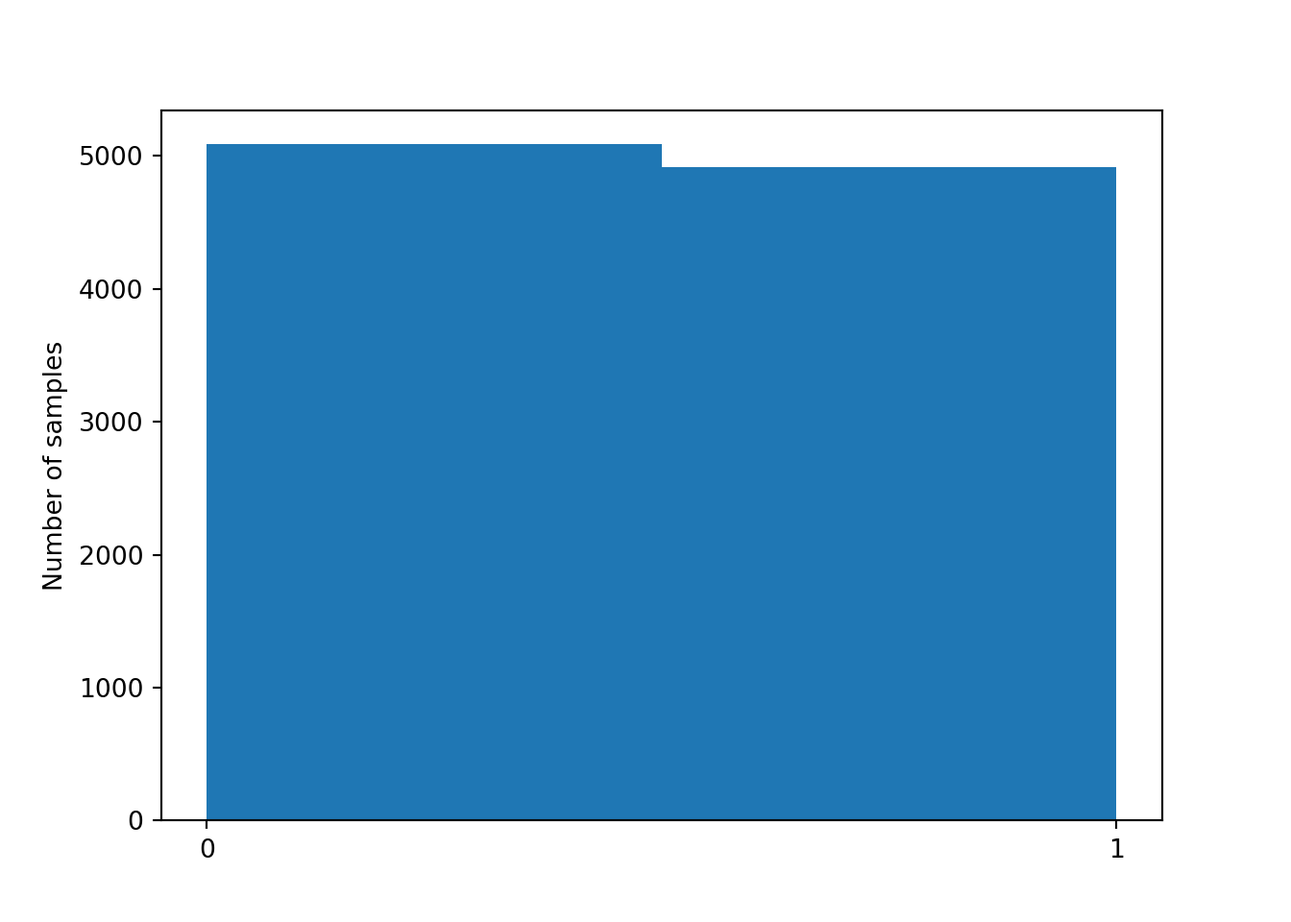
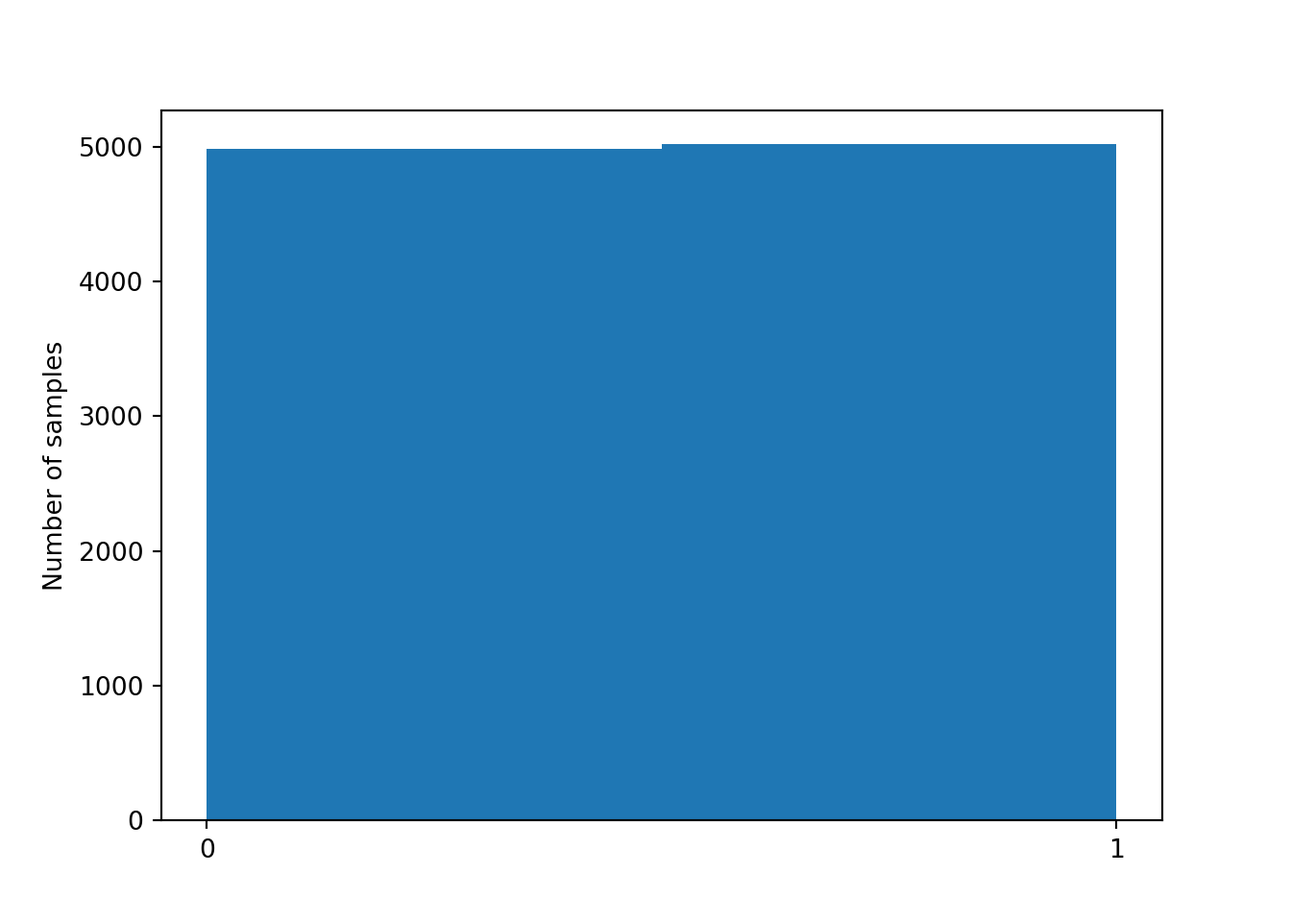
Clarified explanation

diff --git a/pragmatics.html b/pragmatics.html
@@ -99,17 +99,17 @@ Let’s verify.</p>
 <span class="math inline">\(-log(p_1 \cdot p_2) = -(log(p_1) + log(p_2)) = (-log(p_1))+(-log(p_2))\)</span> ✅</li>
 </ul>
 <p>Here’s a plot of this function:</p>
-<div class="sourceCode" id="cb70"><pre class="sourceCode python"><code class="sourceCode python"><span id="cb70-1"><a href="pragmatics.html#cb70-1" aria-hidden="true" tabindex="-1"></a><span class="im">import</span> numpy <span class="im">as</span> np</span>
-<span id="cb70-2"><a href="pragmatics.html#cb70-2" aria-hidden="true" tabindex="-1"></a><span class="im">import</span> matplotlib.pyplot <span class="im">as</span> plt</span>
-<span id="cb70-3"><a href="pragmatics.html#cb70-3" aria-hidden="true" tabindex="-1"></a></span>
-<span id="cb70-4"><a href="pragmatics.html#cb70-4" aria-hidden="true" tabindex="-1"></a>p <span class="op">=</span> np.linspace(<span class="fl">0.001</span>,<span class="dv">1</span>,num<span class="op">=</span><span class="dv">500</span>)</span>
-<span id="cb70-5"><a href="pragmatics.html#cb70-5" aria-hidden="true" tabindex="-1"></a>fp <span class="op">=</span> <span class="op">-</span>np.log(p)</span>
-<span id="cb70-6"><a href="pragmatics.html#cb70-6" aria-hidden="true" tabindex="-1"></a>  </span>
-<span id="cb70-7"><a href="pragmatics.html#cb70-7" aria-hidden="true" tabindex="-1"></a>fig, ax <span class="op">=</span> plt.subplots()</span>
-<span id="cb70-8"><a href="pragmatics.html#cb70-8" aria-hidden="true" tabindex="-1"></a>ax.plot(p, fp)</span>
-<span id="cb70-9"><a href="pragmatics.html#cb70-9" aria-hidden="true" tabindex="-1"></a>ax.set_xlabel(<span class="st">"p"</span>)</span>
-<span id="cb70-10"><a href="pragmatics.html#cb70-10" aria-hidden="true" tabindex="-1"></a>ax.set_ylabel(<span class="st">"surprisal"</span>)</span>
-<span id="cb70-11"><a href="pragmatics.html#cb70-11" aria-hidden="true" tabindex="-1"></a>plt.show()</span></code></pre></div>
+<div class="sourceCode" id="cb71"><pre class="sourceCode python"><code class="sourceCode python"><span id="cb71-1"><a href="pragmatics.html#cb71-1" aria-hidden="true" tabindex="-1"></a><span class="im">import</span> numpy <span class="im">as</span> np</span>
+<span id="cb71-2"><a href="pragmatics.html#cb71-2" aria-hidden="true" tabindex="-1"></a><span class="im">import</span> matplotlib.pyplot <span class="im">as</span> plt</span>
+<span id="cb71-3"><a href="pragmatics.html#cb71-3" aria-hidden="true" tabindex="-1"></a></span>
+<span id="cb71-4"><a href="pragmatics.html#cb71-4" aria-hidden="true" tabindex="-1"></a>p <span class="op">=</span> np.linspace(<span class="fl">0.001</span>,<span class="dv">1</span>,num<span class="op">=</span><span class="dv">500</span>)</span>
+<span id="cb71-5"><a href="pragmatics.html#cb71-5" aria-hidden="true" tabindex="-1"></a>fp <span class="op">=</span> <span class="op">-</span>np.log(p)</span>
+<span id="cb71-6"><a href="pragmatics.html#cb71-6" aria-hidden="true" tabindex="-1"></a>  </span>
+<span id="cb71-7"><a href="pragmatics.html#cb71-7" aria-hidden="true" tabindex="-1"></a>fig, ax <span class="op">=</span> plt.subplots()</span>
+<span id="cb71-8"><a href="pragmatics.html#cb71-8" aria-hidden="true" tabindex="-1"></a>ax.plot(p, fp)</span>
+<span id="cb71-9"><a href="pragmatics.html#cb71-9" aria-hidden="true" tabindex="-1"></a>ax.set_xlabel(<span class="st">"p"</span>)</span>
+<span id="cb71-10"><a href="pragmatics.html#cb71-10" aria-hidden="true" tabindex="-1"></a>ax.set_ylabel(<span class="st">"surprisal"</span>)</span>
+<span id="cb71-11"><a href="pragmatics.html#cb71-11" aria-hidden="true" tabindex="-1"></a>plt.show()</span></code></pre></div>
 <div class="inline-figure"><img src="_main_files/figure-html/unnamed-chunk-52-1.png" width="672"></div>
 <p><em>What does surprisal have to do with language?</em></p>
 <p>When you’re communicating with someone, surprisal can help you decide what information to give the other person. For example, imagine that you observe a number between 1 and 10 and you want to share it with someone else. You could either say:</p>
@@ -136,32 +136,32 @@ Let’s verify.</p>
 <li>Nothing – stay silent. (You could have eaten none or any number of cookies.)</li>
 </ol>
 <p>Let’s define this situation using a binary matrix. Each row is a signal (what you say) and each column is a state (how many cookies were eaten).</p>
-<div class="sourceCode" id="cb71"><pre class="sourceCode python"><code class="sourceCode python"><span id="cb71-1"><a href="pragmatics.html#cb71-1" aria-hidden="true" tabindex="-1"></a>state_matrix <span class="op">=</span> np.array([[<span class="dv">0</span>,<span class="dv">1</span>,<span class="dv">1</span>],</span>
-<span id="cb71-2"><a href="pragmatics.html#cb71-2" aria-hidden="true" tabindex="-1"></a>                         [<span class="dv">0</span>,<span class="dv">0</span>,<span class="dv">1</span>],</span>
-<span id="cb71-3"><a href="pragmatics.html#cb71-3" aria-hidden="true" tabindex="-1"></a>                         [<span class="dv">1</span>,<span class="dv">0</span>,<span class="dv">0</span>],</span>
-<span id="cb71-4"><a href="pragmatics.html#cb71-4" aria-hidden="true" tabindex="-1"></a>                         [<span class="dv">1</span>,<span class="dv">1</span>,<span class="dv">1</span>]])</span>
-<span id="cb71-5"><a href="pragmatics.html#cb71-5" aria-hidden="true" tabindex="-1"></a>                         </span>
-<span id="cb71-6"><a href="pragmatics.html#cb71-6" aria-hidden="true" tabindex="-1"></a>signals <span class="op">=</span> [<span class="st">"some"</span>, <span class="st">"all"</span>, <span class="st">"no"</span>, <span class="st">"silent"</span>]</span>
-<span id="cb71-7"><a href="pragmatics.html#cb71-7" aria-hidden="true" tabindex="-1"></a>states <span class="op">=</span> [<span class="st">"0"</span>,<span class="st">"1"</span>,<span class="st">"2"</span>]</span></code></pre></div>
+<div class="sourceCode" id="cb72"><pre class="sourceCode python"><code class="sourceCode python"><span id="cb72-1"><a href="pragmatics.html#cb72-1" aria-hidden="true" tabindex="-1"></a>state_matrix <span class="op">=</span> np.array([[<span class="dv">0</span>,<span class="dv">1</span>,<span class="dv">1</span>],</span>
+<span id="cb72-2"><a href="pragmatics.html#cb72-2" aria-hidden="true" tabindex="-1"></a>                         [<span class="dv">0</span>,<span class="dv">0</span>,<span class="dv">1</span>],</span>
+<span id="cb72-3"><a href="pragmatics.html#cb72-3" aria-hidden="true" tabindex="-1"></a>                         [<span class="dv">1</span>,<span class="dv">0</span>,<span class="dv">0</span>],</span>
+<span id="cb72-4"><a href="pragmatics.html#cb72-4" aria-hidden="true" tabindex="-1"></a>                         [<span class="dv">1</span>,<span class="dv">1</span>,<span class="dv">1</span>]])</span>
+<span id="cb72-5"><a href="pragmatics.html#cb72-5" aria-hidden="true" tabindex="-1"></a>                         </span>
+<span id="cb72-6"><a href="pragmatics.html#cb72-6" aria-hidden="true" tabindex="-1"></a>signals <span class="op">=</span> [<span class="st">"some"</span>, <span class="st">"all"</span>, <span class="st">"no"</span>, <span class="st">"silent"</span>]</span>
+<span id="cb72-7"><a href="pragmatics.html#cb72-7" aria-hidden="true" tabindex="-1"></a>states <span class="op">=</span> [<span class="st">"0"</span>,<span class="st">"1"</span>,<span class="st">"2"</span>]</span></code></pre></div>
 <p>We’ll define a function that prints out this matrix as a heat map.</p>
-<div class="sourceCode" id="cb72"><pre class="sourceCode python"><code class="sourceCode python"><span id="cb72-1"><a href="pragmatics.html#cb72-1" aria-hidden="true" tabindex="-1"></a><span class="kw">def</span> print_state_matrix(m, x_labels<span class="op">=</span><span class="va">None</span>, y_labels<span class="op">=</span><span class="va">None</span>):</span>
-<span id="cb72-2"><a href="pragmatics.html#cb72-2" aria-hidden="true" tabindex="-1"></a>  fig, ax <span class="op">=</span> plt.subplots()</span>
-<span id="cb72-3"><a href="pragmatics.html#cb72-3" aria-hidden="true" tabindex="-1"></a>  im <span class="op">=</span> ax.imshow(m)</span>
-<span id="cb72-4"><a href="pragmatics.html#cb72-4" aria-hidden="true" tabindex="-1"></a>  </span>
-<span id="cb72-5"><a href="pragmatics.html#cb72-5" aria-hidden="true" tabindex="-1"></a>  <span class="cf">if</span> (x_labels <span class="kw">and</span> y_labels):</span>
-<span id="cb72-6"><a href="pragmatics.html#cb72-6" aria-hidden="true" tabindex="-1"></a>    ax.set_xticks(np.arange(<span class="bu">len</span>(x_labels)), labels<span class="op">=</span>x_labels)</span>
-<span id="cb72-7"><a href="pragmatics.html#cb72-7" aria-hidden="true" tabindex="-1"></a>    ax.set_yticks(np.arange(<span class="bu">len</span>(y_labels)), labels<span class="op">=</span>y_labels)</span>
-<span id="cb72-8"><a href="pragmatics.html#cb72-8" aria-hidden="true" tabindex="-1"></a>  </span>
-<span id="cb72-9"><a href="pragmatics.html#cb72-9" aria-hidden="true" tabindex="-1"></a>    <span class="cf">for</span> i <span class="kw">in</span> <span class="bu">range</span>(<span class="bu">len</span>(y_labels)):</span>
-<span id="cb72-10"><a href="pragmatics.html#cb72-10" aria-hidden="true" tabindex="-1"></a>      <span class="cf">for</span> j <span class="kw">in</span> <span class="bu">range</span>(<span class="bu">len</span>(x_labels)):</span>
-<span id="cb72-11"><a href="pragmatics.html#cb72-11" aria-hidden="true" tabindex="-1"></a>        text <span class="op">=</span> ax.text(j, i, <span class="bu">round</span>(m[i, j],<span class="dv">2</span>),</span>
-<span id="cb72-12"><a href="pragmatics.html#cb72-12" aria-hidden="true" tabindex="-1"></a>          ha<span class="op">=</span><span class="st">"center"</span>, va<span class="op">=</span><span class="st">"center"</span>, color<span class="op">=</span><span class="st">"w"</span>)</span>
-<span id="cb72-13"><a href="pragmatics.html#cb72-13" aria-hidden="true" tabindex="-1"></a>  </span>
-<span id="cb72-14"><a href="pragmatics.html#cb72-14" aria-hidden="true" tabindex="-1"></a>  fig.tight_layout()</span>
-<span id="cb72-15"><a href="pragmatics.html#cb72-15" aria-hidden="true" tabindex="-1"></a>  plt.show()</span>
-<span id="cb72-16"><a href="pragmatics.html#cb72-16" aria-hidden="true" tabindex="-1"></a></span>
-<span id="cb72-17"><a href="pragmatics.html#cb72-17" aria-hidden="true" tabindex="-1"></a><span class="co"># Print out the matrix</span></span>
-<span id="cb72-18"><a href="pragmatics.html#cb72-18" aria-hidden="true" tabindex="-1"></a>print_state_matrix(state_matrix, states, signals)</span></code></pre></div>
+<div class="sourceCode" id="cb73"><pre class="sourceCode python"><code class="sourceCode python"><span id="cb73-1"><a href="pragmatics.html#cb73-1" aria-hidden="true" tabindex="-1"></a><span class="kw">def</span> print_state_matrix(m, x_labels<span class="op">=</span><span class="va">None</span>, y_labels<span class="op">=</span><span class="va">None</span>):</span>
+<span id="cb73-2"><a href="pragmatics.html#cb73-2" aria-hidden="true" tabindex="-1"></a>  fig, ax <span class="op">=</span> plt.subplots()</span>
+<span id="cb73-3"><a href="pragmatics.html#cb73-3" aria-hidden="true" tabindex="-1"></a>  im <span class="op">=</span> ax.imshow(m)</span>
+<span id="cb73-4"><a href="pragmatics.html#cb73-4" aria-hidden="true" tabindex="-1"></a>  </span>
+<span id="cb73-5"><a href="pragmatics.html#cb73-5" aria-hidden="true" tabindex="-1"></a>  <span class="cf">if</span> (x_labels <span class="kw">and</span> y_labels):</span>
+<span id="cb73-6"><a href="pragmatics.html#cb73-6" aria-hidden="true" tabindex="-1"></a>    ax.set_xticks(np.arange(<span class="bu">len</span>(x_labels)), labels<span class="op">=</span>x_labels)</span>
+<span id="cb73-7"><a href="pragmatics.html#cb73-7" aria-hidden="true" tabindex="-1"></a>    ax.set_yticks(np.arange(<span class="bu">len</span>(y_labels)), labels<span class="op">=</span>y_labels)</span>
+<span id="cb73-8"><a href="pragmatics.html#cb73-8" aria-hidden="true" tabindex="-1"></a>  </span>
+<span id="cb73-9"><a href="pragmatics.html#cb73-9" aria-hidden="true" tabindex="-1"></a>    <span class="cf">for</span> i <span class="kw">in</span> <span class="bu">range</span>(<span class="bu">len</span>(y_labels)):</span>
+<span id="cb73-10"><a href="pragmatics.html#cb73-10" aria-hidden="true" tabindex="-1"></a>      <span class="cf">for</span> j <span class="kw">in</span> <span class="bu">range</span>(<span class="bu">len</span>(x_labels)):</span>
+<span id="cb73-11"><a href="pragmatics.html#cb73-11" aria-hidden="true" tabindex="-1"></a>        text <span class="op">=</span> ax.text(j, i, <span class="bu">round</span>(m[i, j],<span class="dv">2</span>),</span>
+<span id="cb73-12"><a href="pragmatics.html#cb73-12" aria-hidden="true" tabindex="-1"></a>          ha<span class="op">=</span><span class="st">"center"</span>, va<span class="op">=</span><span class="st">"center"</span>, color<span class="op">=</span><span class="st">"w"</span>)</span>
+<span id="cb73-13"><a href="pragmatics.html#cb73-13" aria-hidden="true" tabindex="-1"></a>  </span>
+<span id="cb73-14"><a href="pragmatics.html#cb73-14" aria-hidden="true" tabindex="-1"></a>  fig.tight_layout()</span>
+<span id="cb73-15"><a href="pragmatics.html#cb73-15" aria-hidden="true" tabindex="-1"></a>  plt.show()</span>
+<span id="cb73-16"><a href="pragmatics.html#cb73-16" aria-hidden="true" tabindex="-1"></a></span>
+<span id="cb73-17"><a href="pragmatics.html#cb73-17" aria-hidden="true" tabindex="-1"></a><span class="co"># Print out the matrix</span></span>
+<span id="cb73-18"><a href="pragmatics.html#cb73-18" aria-hidden="true" tabindex="-1"></a>print_state_matrix(state_matrix, states, signals)</span></code></pre></div>
 <div class="inline-figure"><img src="_main_files/figure-html/unnamed-chunk-54-3.png" width="672"></div>
 <p>Now let’s calculate how a literal listener would interpret each of these statements. Each row in the matrix above (one for each signal) will define a distribution over the states. That is, for for state <span class="math inline">\(h\)</span> and signal <span class="math inline">\(d\)</span>, we want to compute:</p>
 <p><span class="math display">\[
@@ -169,35 +169,35 @@ P_{\text{listener}}(h|d) \propto P(d|h) P(h)
 \]</span></p>
 <p>The literal listener assumes that, given a state, a signal consistent with that state is chosen at random by the speaker. This is already captured in the matrix above: Signals consistent with a state have a value of 1 in their cells and signals inconsistent have a 0. We will also assume that the listener has a uniform prior over states. Therefore, we can calculate the literal listener’s probabilities by just normalizing the rows of the matrix.</p>
 <p>We’ll do this more than once, so let’s write a function to do it.</p>
-<div class="sourceCode" id="cb73"><pre class="sourceCode python"><code class="sourceCode python"><span id="cb73-1"><a href="pragmatics.html#cb73-1" aria-hidden="true" tabindex="-1"></a><span class="kw">def</span> normalize_rows(m):</span>
-<span id="cb73-2"><a href="pragmatics.html#cb73-2" aria-hidden="true" tabindex="-1"></a>  normalized_m <span class="op">=</span> np.zeros((m.shape))</span>
-<span id="cb73-3"><a href="pragmatics.html#cb73-3" aria-hidden="true" tabindex="-1"></a>  row_num <span class="op">=</span> <span class="dv">0</span></span>
-<span id="cb73-4"><a href="pragmatics.html#cb73-4" aria-hidden="true" tabindex="-1"></a>  <span class="cf">for</span> row <span class="kw">in</span> m:</span>
-<span id="cb73-5"><a href="pragmatics.html#cb73-5" aria-hidden="true" tabindex="-1"></a>    normalized_m[row_num,:] <span class="op">=</span> row <span class="op">/</span> <span class="bu">sum</span>(row)</span>
-<span id="cb73-6"><a href="pragmatics.html#cb73-6" aria-hidden="true" tabindex="-1"></a>    row_num <span class="op">+=</span> <span class="dv">1</span></span>
-<span id="cb73-7"><a href="pragmatics.html#cb73-7" aria-hidden="true" tabindex="-1"></a>    </span>
-<span id="cb73-8"><a href="pragmatics.html#cb73-8" aria-hidden="true" tabindex="-1"></a>  <span class="cf">return</span>(normalized_m)</span></code></pre></div>
-<div class="sourceCode" id="cb74"><pre class="sourceCode python"><code class="sourceCode python"><span id="cb74-1"><a href="pragmatics.html#cb74-1" aria-hidden="true" tabindex="-1"></a>literal_listener <span class="op">=</span> normalize_rows(state_matrix)</span>
-<span id="cb74-2"><a href="pragmatics.html#cb74-2" aria-hidden="true" tabindex="-1"></a>print_state_matrix(literal_listener, states, signals)</span></code></pre></div>
+<div class="sourceCode" id="cb74"><pre class="sourceCode python"><code class="sourceCode python"><span id="cb74-1"><a href="pragmatics.html#cb74-1" aria-hidden="true" tabindex="-1"></a><span class="kw">def</span> normalize_rows(m):</span>
+<span id="cb74-2"><a href="pragmatics.html#cb74-2" aria-hidden="true" tabindex="-1"></a>  normalized_m <span class="op">=</span> np.zeros((m.shape))</span>
+<span id="cb74-3"><a href="pragmatics.html#cb74-3" aria-hidden="true" tabindex="-1"></a>  row_num <span class="op">=</span> <span class="dv">0</span></span>
+<span id="cb74-4"><a href="pragmatics.html#cb74-4" aria-hidden="true" tabindex="-1"></a>  <span class="cf">for</span> row <span class="kw">in</span> m:</span>
+<span id="cb74-5"><a href="pragmatics.html#cb74-5" aria-hidden="true" tabindex="-1"></a>    normalized_m[row_num,:] <span class="op">=</span> row <span class="op">/</span> <span class="bu">sum</span>(row)</span>
+<span id="cb74-6"><a href="pragmatics.html#cb74-6" aria-hidden="true" tabindex="-1"></a>    row_num <span class="op">+=</span> <span class="dv">1</span></span>
+<span id="cb74-7"><a href="pragmatics.html#cb74-7" aria-hidden="true" tabindex="-1"></a>    </span>
+<span id="cb74-8"><a href="pragmatics.html#cb74-8" aria-hidden="true" tabindex="-1"></a>  <span class="cf">return</span>(normalized_m)</span></code></pre></div>
+<div class="sourceCode" id="cb75"><pre class="sourceCode python"><code class="sourceCode python"><span id="cb75-1"><a href="pragmatics.html#cb75-1" aria-hidden="true" tabindex="-1"></a>literal_listener <span class="op">=</span> normalize_rows(state_matrix)</span>
+<span id="cb75-2"><a href="pragmatics.html#cb75-2" aria-hidden="true" tabindex="-1"></a>print_state_matrix(literal_listener, states, signals)</span></code></pre></div>
 <div class="inline-figure"><img src="_main_files/figure-html/unnamed-chunk-56-5.png" width="672"></div>
 <p>Now let’s calculate the pragmatic speaker. The pragmatic speaker chooses a signal given a state. Therefore, this time, the <em>columns</em> of the matrix will be probability distributions.</p>
 <p>Unlike the literal listener, the pragmatic speaker is trying to convey some information, so they will choose a signal with the greatest <em>expected utility</em> for the literal listener. Expected utility in this case is defined as the expected increase in understanding about the true state of the world. Remember, we already have a way of quantifying this: surprisal. So we’ll define utility as negative surprisal of the state given the signal from the point of view of the literal listener: <span class="math inline">\(-(-log(P_{\text{listener}}(h|d)))\)</span>.</p>
-<div class="sourceCode" id="cb75"><pre class="sourceCode python"><code class="sourceCode python"><span id="cb75-1"><a href="pragmatics.html#cb75-1" aria-hidden="true" tabindex="-1"></a><span class="co"># First we apply a softmax decision function</span></span>
-<span id="cb75-2"><a href="pragmatics.html#cb75-2" aria-hidden="true" tabindex="-1"></a>alpha <span class="op">=</span> <span class="dv">1</span> <span class="co"># paramater controls how close to maximizing speaker is</span></span>
-<span id="cb75-3"><a href="pragmatics.html#cb75-3" aria-hidden="true" tabindex="-1"></a>pragmatic_speaker <span class="op">=</span> np.exp(np.log(literal_listener)<span class="op">*</span>alpha)</span></code></pre></div>
+<div class="sourceCode" id="cb76"><pre class="sourceCode python"><code class="sourceCode python"><span id="cb76-1"><a href="pragmatics.html#cb76-1" aria-hidden="true" tabindex="-1"></a><span class="co"># First we apply a softmax decision function</span></span>
+<span id="cb76-2"><a href="pragmatics.html#cb76-2" aria-hidden="true" tabindex="-1"></a>alpha <span class="op">=</span> <span class="dv">1</span> <span class="co"># paramater controls how close to maximizing speaker is</span></span>
+<span id="cb76-3"><a href="pragmatics.html#cb76-3" aria-hidden="true" tabindex="-1"></a>pragmatic_speaker <span class="op">=</span> np.exp(np.log(literal_listener)<span class="op">*</span>alpha)</span></code></pre></div>
 <pre><code>## &lt;string&gt;:1: RuntimeWarning: divide by zero encountered in log</code></pre>
-<div class="sourceCode" id="cb77"><pre class="sourceCode python"><code class="sourceCode python"><span id="cb77-1"><a href="pragmatics.html#cb77-1" aria-hidden="true" tabindex="-1"></a><span class="cf">for</span> col <span class="kw">in</span> <span class="bu">range</span>(pragmatic_speaker.shape[<span class="dv">1</span>]):</span>
-<span id="cb77-2"><a href="pragmatics.html#cb77-2" aria-hidden="true" tabindex="-1"></a>  pragmatic_speaker[:,col] <span class="op">=</span> (pragmatic_speaker[:,col] <span class="op">/</span></span>
-<span id="cb77-3"><a href="pragmatics.html#cb77-3" aria-hidden="true" tabindex="-1"></a>    <span class="bu">sum</span>(pragmatic_speaker[:,col]))</span>
-<span id="cb77-4"><a href="pragmatics.html#cb77-4" aria-hidden="true" tabindex="-1"></a></span>
-<span id="cb77-5"><a href="pragmatics.html#cb77-5" aria-hidden="true" tabindex="-1"></a>print_state_matrix(pragmatic_speaker, states, signals)</span></code></pre></div>
+<div class="sourceCode" id="cb78"><pre class="sourceCode python"><code class="sourceCode python"><span id="cb78-1"><a href="pragmatics.html#cb78-1" aria-hidden="true" tabindex="-1"></a><span class="cf">for</span> col <span class="kw">in</span> <span class="bu">range</span>(pragmatic_speaker.shape[<span class="dv">1</span>]):</span>
+<span id="cb78-2"><a href="pragmatics.html#cb78-2" aria-hidden="true" tabindex="-1"></a>  pragmatic_speaker[:,col] <span class="op">=</span> (pragmatic_speaker[:,col] <span class="op">/</span></span>
+<span id="cb78-3"><a href="pragmatics.html#cb78-3" aria-hidden="true" tabindex="-1"></a>    <span class="bu">sum</span>(pragmatic_speaker[:,col]))</span>
+<span id="cb78-4"><a href="pragmatics.html#cb78-4" aria-hidden="true" tabindex="-1"></a></span>
+<span id="cb78-5"><a href="pragmatics.html#cb78-5" aria-hidden="true" tabindex="-1"></a>print_state_matrix(pragmatic_speaker, states, signals)</span></code></pre></div>
 <div class="inline-figure"><img src="_main_files/figure-html/unnamed-chunk-57-7.png" width="672"></div>
 <p>In the above code, I used something known as a “softmax” rather than a true maximizing function. The exponential function captures the idea that the speaker will choose probabilistically, generally choosing options with more utility. This is a fairly common assumption in both psychology and economics because we often don’t have complete information when making decisions (or when modeling other people’s decisions), so assuming a pure maximizing function isn’t always the best choice.</p>
 <p>However, I also included a parameter <code>alpha</code> that controls how close to maximizing the speaker is. The larger <code>alpha</code> is, the closer the speaker will get to maximizing utility.</p>
 <p>Now we can calculate the probabilities for the pragmatic listener. This will be similar to the literal listener in that the pragmatic listener receives a signal and computes the probability of each state given a signal. The difference is that the pragmatic listener doesn’t assume the signals are chosen at random, but that the signals are chosen by the pragmatic speaker above.</p>
 <p>We can compute the pragmatic listener by normalizing the matrix above along the rows.</p>
-<div class="sourceCode" id="cb78"><pre class="sourceCode python"><code class="sourceCode python"><span id="cb78-1"><a href="pragmatics.html#cb78-1" aria-hidden="true" tabindex="-1"></a>pragmatic_listener <span class="op">=</span> normalize_rows(pragmatic_speaker)</span>
-<span id="cb78-2"><a href="pragmatics.html#cb78-2" aria-hidden="true" tabindex="-1"></a>print_state_matrix(pragmatic_listener, states, signals)</span></code></pre></div>
+<div class="sourceCode" id="cb79"><pre class="sourceCode python"><code class="sourceCode python"><span id="cb79-1"><a href="pragmatics.html#cb79-1" aria-hidden="true" tabindex="-1"></a>pragmatic_listener <span class="op">=</span> normalize_rows(pragmatic_speaker)</span>
+<span id="cb79-2"><a href="pragmatics.html#cb79-2" aria-hidden="true" tabindex="-1"></a>print_state_matrix(pragmatic_listener, states, signals)</span></code></pre></div>
 <div class="inline-figure"><img src="_main_files/figure-html/unnamed-chunk-58-9.png" width="672"></div>
 <p>The pragmatic listener correctly infers a <a href="https://en.wikipedia.org/wiki/Scalar_implicature">scalar implicature</a>, a concept from pragmatics in linguistics. Even though “I had some cookies” is consistent with eating all of the cookies, a pragmatic listener will infer that if a person says they ate <em>some</em> then they did not eat <em>all</em> (otherwise they would have said so).</p>
 </div>
@@ -223,7 +223,8 @@ P_{\text{listener}}(h|d) \propto P(d|h) P(h)
 <span class="header-section-number">8.3.2</span> The model<a class="anchor" aria-label="anchor" href="#the-model-1"><i class="fas fa-link"></i></a>
 </h3>
 <p>Their model is virtually identical to the cookie jar model we just worked through. They assume that speakers try to choose words to maximize the listener’s utility, as measured by surprisal.</p>
-<p>A literal listener in this case would assume that any object that is consistent the speaker’s chosen word could have been the one they were referring to. In the paper, they formalize this assumption like so:</p>
+<p>A literal listener in this case would assume that any object that is consistent with the speaker’s chosen word could have been the one they were referring to.</p>
+<p>With these assumptions, the researchers derive the probability of the speaker choosing each word (details in the paper) as:</p>
 <p><span class="math display">\[
 P(w|r_s,C) = \frac{|w|^{-1}}{\sum_{w^\prime \in W} {|w^\prime|}^{-1}}
 \]</span></p>
@@ -240,6 +241,7 @@ P(w|r_s,C) = \frac{|w|^{-1}}{\sum_{w^\prime \in W} {|w^\prime|}^{-1}}
 <span class="math inline">\(W\)</span>: The set of words that apply to the object that the speaker meant to refer to.</li>
 </ul>
 <p>Regarding <span class="math inline">\(W\)</span>, imagine that the speaker wanted to refer to the blue circle. In that case, <span class="math inline">\(W = \{ \text{blue}, \text{circle} \}\)</span>, because either word could apply to the object.</p>
+<p>According to this model, speakers will tend to choose words that more uniquely identify an object in a set. For example, in the set above, because <em>blue</em> applies to two objects (blue square and blue circle), but <em>circle</em> only applies to one, <em>circle</em> will get higher probability.</p>
 </div>
 <div id="homework-4-implement-the-model" class="section level3" number="8.3.3">
 <h3>
@@ -283,7 +285,7 @@ P(w|r_s,C) = \frac{|w|^{-1}}{\sum_{w^\prime \in W} {|w^\prime|}^{-1}}
 <footer class="bg-primary text-light mt-5"><div class="container"><div class="row">
 
   <div class="col-12 col-md-6 mt-3">
-    <p>"<strong>Computational Psychology in Python</strong>" was written by Alan Jern. It was last built on 2022-04-01.</p>
+    <p>"<strong>Computational Psychology in Python</strong>" was written by Alan Jern. It was last built on 2022-04-04.</p>
   </div>
 
   <div class="col-12 col-md-6 mt-3">

diff --git a/bayes.html b/bayes.html
@@ -141,7 +141,7 @@ Figure 3.1: The duck-rabbit illusion.
 <div class="sourceCode" id="cb8"><pre class="sourceCode python"><code class="sourceCode python"><span id="cb8-1"><a href="bayes.html#cb8-1" aria-hidden="true" tabindex="-1"></a>ball_samples <span class="op">=</span> np.random.binomial(n <span class="op">=</span> np.repeat(<span class="dv">1</span>,<span class="bu">len</span>(p_black)),</span>
 <span id="cb8-2"><a href="bayes.html#cb8-2" aria-hidden="true" tabindex="-1"></a>                                  p <span class="op">=</span> p_black)</span>
 <span id="cb8-3"><a href="bayes.html#cb8-3" aria-hidden="true" tabindex="-1"></a><span class="bu">print</span>(ball_samples[<span class="dv">0</span>:<span class="dv">9</span>])</span></code></pre></div>
-<pre><code>## [1 1 0 0 0 1 1 1 0]</code></pre>
+<pre><code>## [0 0 1 0 1 1 0 0 1]</code></pre>
 <p><code>ball_samples</code> is 1 for black and 0 for red. Once again, let’s plot all our samples.</p>
 <div class="sourceCode" id="cb10"><pre class="sourceCode python"><code class="sourceCode python"><span id="cb10-1"><a href="bayes.html#cb10-1" aria-hidden="true" tabindex="-1"></a>fig, ax <span class="op">=</span> plt.subplots()</span>
 <span id="cb10-2"><a href="bayes.html#cb10-2" aria-hidden="true" tabindex="-1"></a>n, bins, patches <span class="op">=</span> ax.hist(ball_samples, bins<span class="op">=</span><span class="dv">2</span>)</span>
@@ -410,7 +410,7 @@ This sequence isn’t even possible under <span class="math inline">\(h_2\)</spa
 <footer class="bg-primary text-light mt-5"><div class="container"><div class="row">
 
   <div class="col-12 col-md-6 mt-3">
-    <p>"<strong>Computational Psychology in Python</strong>" was written by Alan Jern. It was last built on 2022-04-01.</p>
+    <p>"<strong>Computational Psychology in Python</strong>" was written by Alan Jern. It was last built on 2022-04-04.</p>
   </div>
 
   <div class="col-12 col-md-6 mt-3">

diff --git a/hierarchical-generalization.html b/hierarchical-generalization.html
@@ -160,6 +160,7 @@ P(\theta|D) = \text{Beta}(\theta; \alpha + k, \beta + n-k)
 <div class="inline-figure"><img src="_main_files/figure-html/unnamed-chunk-44-19.png" width="672"></div>
 <p>Now you flip the coin 100 times and it comes up heads 48 times. What should your updated beliefs be?</p>
 <div class="sourceCode" id="cb69"><pre class="sourceCode python"><code class="sourceCode python"><span id="cb69-1"><a href="hierarchical-generalization.html#cb69-1" aria-hidden="true" tabindex="-1"></a>plot_beta(<span class="dv">5</span><span class="op">+</span><span class="dv">48</span>,<span class="dv">1</span><span class="op">+</span><span class="dv">52</span>)</span></code></pre></div>
+<pre><code>## &lt;string&gt;:5: RuntimeWarning: More than 20 figures have been opened. Figures created through the pyplot interface (`matplotlib.pyplot.figure`) are retained until explicitly closed and may consume too much memory. (To control this warning, see the rcParam `figure.max_open_warning`).</code></pre>
 <div class="inline-figure"><img src="_main_files/figure-html/unnamed-chunk-45-21.png" width="672"></div>
 <p>As you can see, the posterior distribution shows that you should think this coin is probably fair now. This illustrates how sufficient evidence can override prior beliefs.</p>
 </div>
@@ -242,7 +243,7 @@ Figure 6.2: A common task used to test for the shape bias.
 <footer class="bg-primary text-light mt-5"><div class="container"><div class="row">
 
   <div class="col-12 col-md-6 mt-3">
-    <p>"<strong>Computational Psychology in Python</strong>" was written by Alan Jern. It was last built on 2022-04-01.</p>
+    <p>"<strong>Computational Psychology in Python</strong>" was written by Alan Jern. It was last built on 2022-04-04.</p>
   </div>
 
   <div class="col-12 col-md-6 mt-3">

diff --git a/categorization.html b/categorization.html
@@ -241,7 +241,7 @@ P(C_1|S_i) = \frac{b_1 \sum_{j \in C_1} \eta_{ij}}{b_1 \sum_{j \in C_1} \eta_{ij
 <footer class="bg-primary text-light mt-5"><div class="container"><div class="row">
 
   <div class="col-12 col-md-6 mt-3">
-    <p>"<strong>Computational Psychology in Python</strong>" was written by Alan Jern. It was last built on 2022-04-01.</p>
+    <p>"<strong>Computational Psychology in Python</strong>" was written by Alan Jern. It was last built on 2022-04-04.</p>
   </div>
 
   <div class="col-12 col-md-6 mt-3">

diff --git a/generalization.html b/generalization.html
@@ -328,7 +328,7 @@ Figure 4.3: Comparison between model results and human judgments. Image from San
 <footer class="bg-primary text-light mt-5"><div class="container"><div class="row">
 
   <div class="col-12 col-md-6 mt-3">
-    <p>"<strong>Computational Psychology in Python</strong>" was written by Alan Jern. It was last built on 2022-04-01.</p>
+    <p>"<strong>Computational Psychology in Python</strong>" was written by Alan Jern. It was last built on 2022-04-04.</p>
   </div>
 
   <div class="col-12 col-md-6 mt-3">

diff --git a/intro.html b/intro.html
@@ -133,7 +133,7 @@ Figure 2.1: The visible light spectrum. Source: Philip Ronan/Wikipedia.
 <footer class="bg-primary text-light mt-5"><div class="container"><div class="row">
 
   <div class="col-12 col-md-6 mt-3">
-    <p>"<strong>Computational Psychology in Python</strong>" was written by Alan Jern. It was last built on 2022-04-01.</p>
+    <p>"<strong>Computational Psychology in Python</strong>" was written by Alan Jern. It was last built on 2022-04-04.</p>
   </div>
 
   <div class="col-12 col-md-6 mt-3">

diff --git a/sampling-assumptions.html b/sampling-assumptions.html
@@ -210,7 +210,7 @@ Figure 7.5: Results from Shafto et al.’s (2014) Experiment 1.
 <footer class="bg-primary text-light mt-5"><div class="container"><div class="row">
 
   <div class="col-12 col-md-6 mt-3">
-    <p>"<strong>Computational Psychology in Python</strong>" was written by Alan Jern. It was last built on 2022-04-01.</p>
+    <p>"<strong>Computational Psychology in Python</strong>" was written by Alan Jern. It was last built on 2022-04-04.</p>
   </div>
 
   <div class="col-12 col-md-6 mt-3">

diff --git a/404.html b/404.html
@@ -82,7 +82,7 @@ the table of contents to find the page you are looking for.</p>
 <footer class="bg-primary text-light mt-5"><div class="container"><div class="row">
 
   <div class="col-12 col-md-6 mt-3">
-    <p>"<strong>Computational Psychology in Python</strong>" was written by Alan Jern. It was last built on 2022-04-01.</p>
+    <p>"<strong>Computational Psychology in Python</strong>" was written by Alan Jern. It was last built on 2022-04-04.</p>
   </div>
 
   <div class="col-12 col-md-6 mt-3">

diff --git a/index.html b/index.html
@@ -118,7 +118,7 @@ set in the _output.yml file.&lt;/p&gt;">
 <footer class="bg-primary text-light mt-5"><div class="container"><div class="row">
 
   <div class="col-12 col-md-6 mt-3">
-    <p>"<strong>Computational Psychology in Python</strong>" was written by Alan Jern. It was last built on 2022-04-01.</p>
+    <p>"<strong>Computational Psychology in Python</strong>" was written by Alan Jern. It was last built on 2022-04-04.</p>
   </div>
 
   <div class="col-12 col-md-6 mt-3">

diff --git a/social-cognition.html b/social-cognition.html
@@ -99,7 +99,7 @@
 <footer class="bg-primary text-light mt-5"><div class="container"><div class="row">
 
   <div class="col-12 col-md-6 mt-3">
-    <p>"<strong>Computational Psychology in Python</strong>" was written by Alan Jern. It was last built on 2022-04-01.</p>
+    <p>"<strong>Computational Psychology in Python</strong>" was written by Alan Jern. It was last built on 2022-04-04.</p>
   </div>
 
   <div class="col-12 col-md-6 mt-3">
